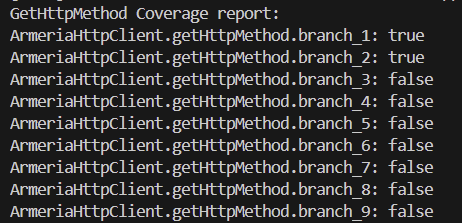
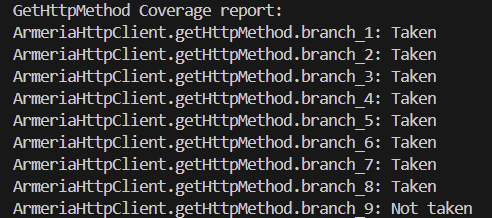
fixed my code for invisible eye and updated screenshots

diff --git a/scribejava-httpclient-armeria/src/main/java/com/github/scribejava/httpclient/armeria/ArmeriaHttpClient.java b/scribejava-httpclient-armeria/src/main/java/com/github/scribejava/httpclient/armeria/ArmeriaHttpClient.java
@@ -201,7 +201,7 @@ public class ArmeriaHttpClient extends AbstractAsyncOnlyHttpClient {
         return requireNonNull(uri.getScheme(), "scheme") + "://" + requireNonNull(uri.getAuthority(), "authority");
     }
 
-    private static boolean[] getServiceCaseCoverage = new boolean[2]; // Data structure
+    private static boolean[] getServiceCaseCoverage = new boolean[4]; // Data structure
 
     /**
      * Extracts {@code path}, {@code query} and {@code fragment} portion of the
@@ -217,11 +217,17 @@ public class ArmeriaHttpClient extends AbstractAsyncOnlyHttpClient {
         if (query != null) {
             getServiceCaseCoverage[0] = true; // ID: ArmeriaHttpClient.getServicePath.branch_1
             builder.append('?').append(query);
+        } else {
+            // If query is null do nothing. This is purely for invisible eye coverage
+            getServiceCaseCoverage[1] = true; // ID: ArmeriaHttpClient.getServicePath.branch_2
         }
         final String fragment = uri.getFragment();
         if (fragment != null) {
-            getServiceCaseCoverage[1] = true; // ID: ArmeriaHttpClient.getServicePath.branch_2
+            getServiceCaseCoverage[2] = true; // ID: ArmeriaHttpClient.getServicePath.branch_2
             builder.append('#').append(fragment);
+        } else {
+            // If fragment is null do nothing. This is purely for invisible eye coverage
+            getServiceCaseCoverage[3] = true; // ID: ArmeriaHttpClient.getServicePath.branch_3
         }
         return builder.toString();
     }
@@ -229,13 +235,14 @@ public class ArmeriaHttpClient extends AbstractAsyncOnlyHttpClient {
     private static void printCoverage() {
         System.out.println("GetHttpMethod Coverage report:");
         for (int i = 0; i < getHttpCaseCoverage.length; i++) {
-            System.out.println("ArmeriaHttpClient.getHttpMethod.branch_" + (i + 1) + ": "
-                    + getHttpCaseCoverage[i]);
+            String coverageStatus = getHttpCaseCoverage[i] ? "Taken" : "Not taken";
+            System.out.println("ArmeriaHttpClient.getHttpMethod.branch_" + (i + 1) + ": " + coverageStatus);
         }
 
         System.out.println("GetService Coverage report:");
         for (int i = 0; i < getServiceCaseCoverage.length; i++) {
-            System.out.println("ArmeriaHttpClient.getServicePath.branch_" + (i + 1) + ":" + getServiceCaseCoverage[i]);
+            String coverageStatus = getServiceCaseCoverage[i] ? "Taken" : "Not taken";
+            System.out.println("ArmeriaHttpClient.getServicePath.branch_" + (i + 1) + ": " + coverageStatus);
         }
     }
 
